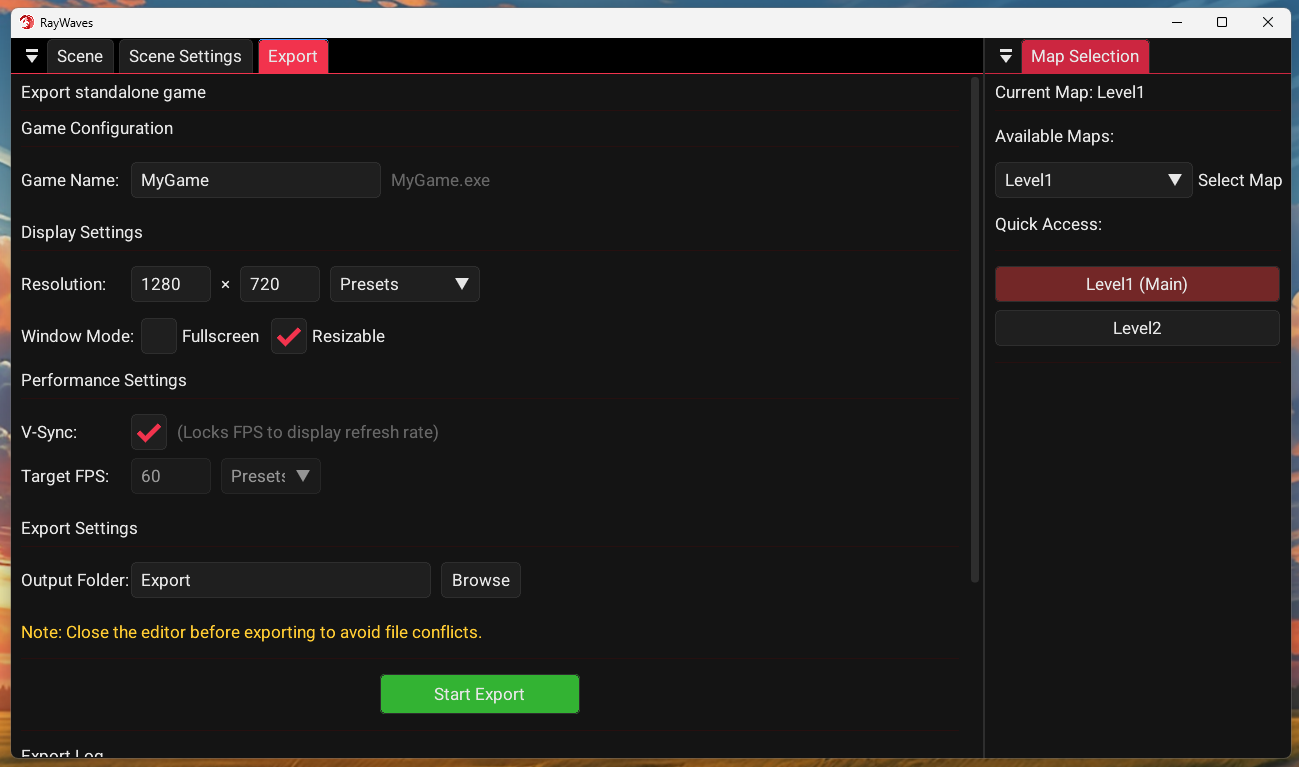
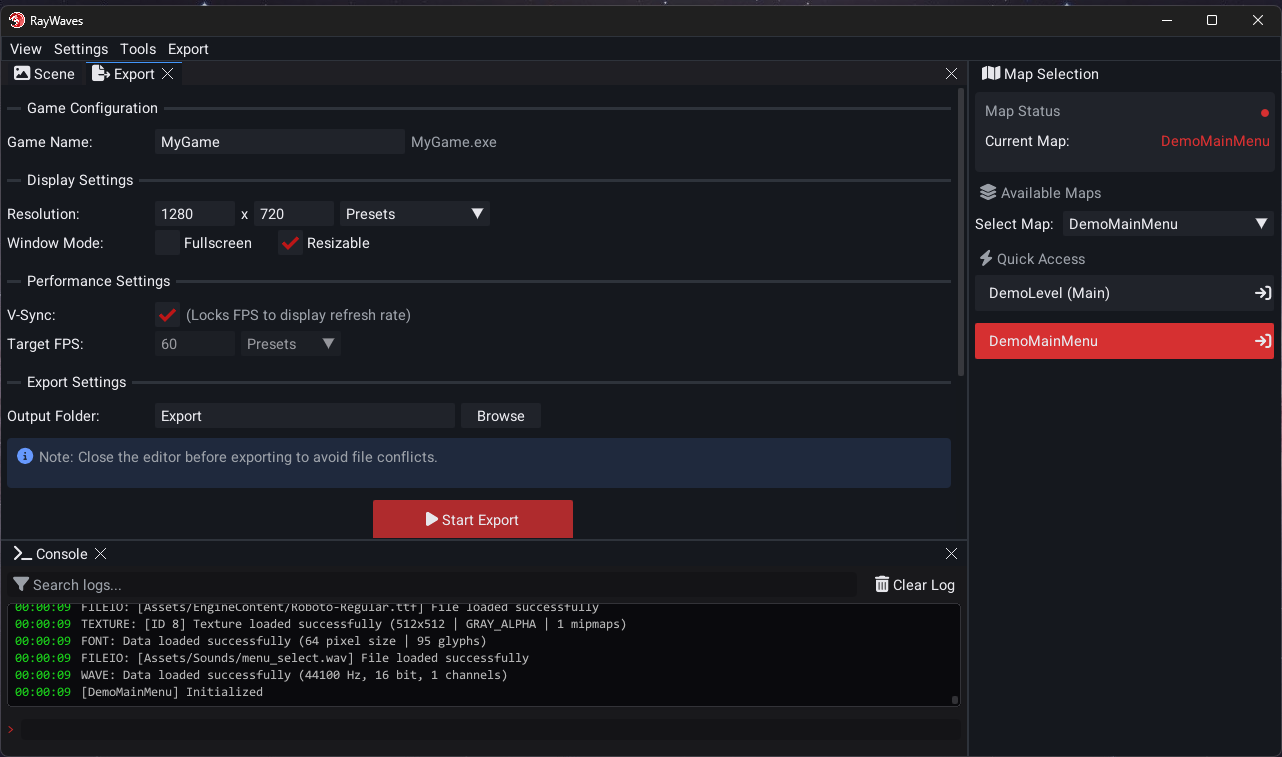
updated the output image

diff --git a/Editor/GameEditorLayout.h b/Editor/GameEditorLayout.h
@@ -32,16 +32,14 @@ Collapsed=0
 DockId=0x00000003,0
 
 [Window][)" + ICON_FA_FILE_EXPORT + R"( Export]
-Pos=0,25
-Size=972,465
+Pos=141,134
+Size=695,748
 Collapsed=0
-DockId=0x00000005,2
 
 [Window][)" + ICON_FA_GEARS + R"( Scene Settings]
-Pos=0,25
-Size=951,444
+Pos=65,116
+Size=564,222
 Collapsed=0
-DockId=0x00000001,1
 
 [Window][Performance Overlay]
 Pos=10,140
@@ -69,7 +67,6 @@ DockSpace     ID=0x08BD597D Window=0x1BBC0F80 Pos=0,25 Size=1280,695 Split=X
     DockNode  ID=0x00000001 Parent=0x00000002 SizeRef=951,478 CentralNode=1 Selected=0xE53DD001
     DockNode  ID=0x00000004 Parent=0x00000002 SizeRef=951,215 Selected=0x8509AE9E
   DockNode    ID=0x00000003 Parent=0x08BD597D SizeRef=312,695 Selected=0x38B9FCCC
-
 )";
 
     ImGui::LoadIniSettingsFromMemory